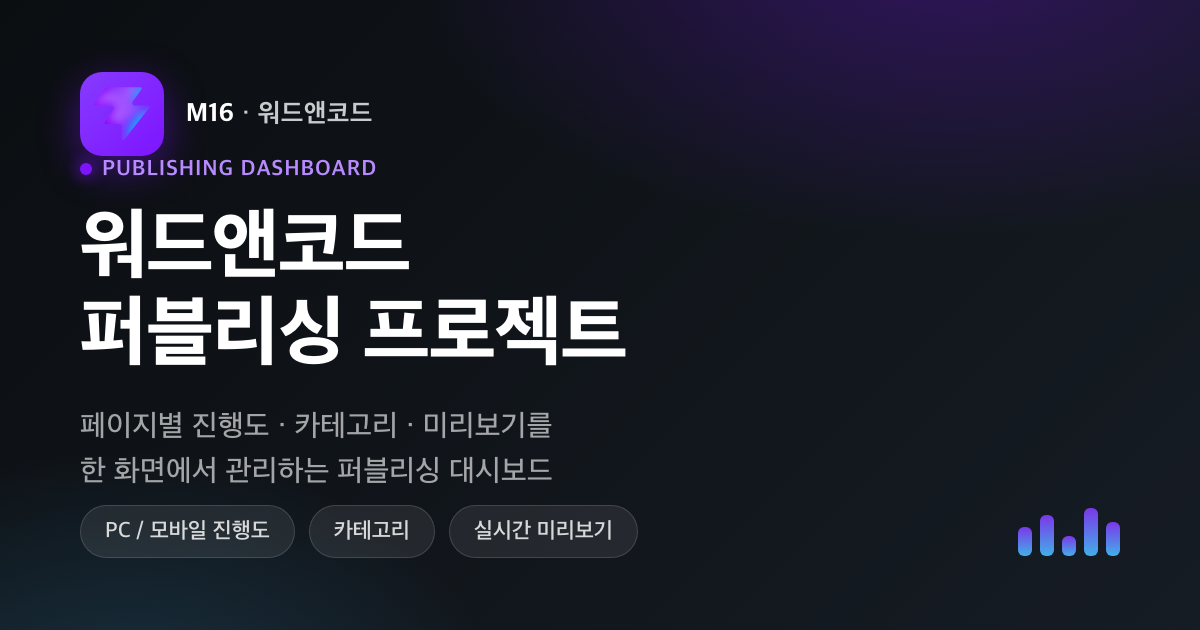
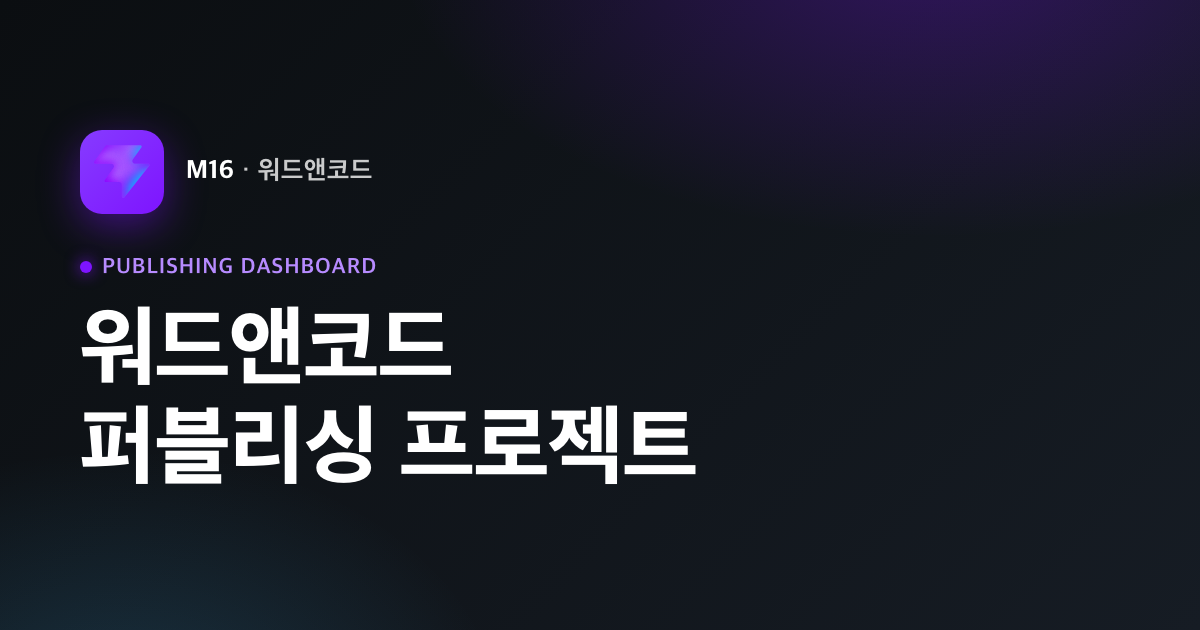
fix: OG 이미지 단순화(부제·칩 제거) 및 og:image를 https 경로로 변경

diff --git a/index.html b/index.html
@@ -19,7 +19,9 @@
     <meta property="og:description" content="페이지별 진행도와 미리보기를 한눈에 보는 퍼블리싱 대시보드." />
     <meta property="og:locale" content="ko_KR" />
     <meta property="og:url" content="http://m16.co.kr/familynet/projects/" />
-    <meta property="og:image" content="http://m16.co.kr/familynet/projects/og-image.png" />
+    <!-- og:image는 https 필수(카카오 등) — m16은 http라 https GitHub Pages 경로 사용 -->
+    <meta property="og:image" content="https://lebass98.github.io/m16/og-image.png" />
+    <meta property="og:image:secure_url" content="https://lebass98.github.io/m16/og-image.png" />
     <meta property="og:image:type" content="image/png" />
     <meta property="og:image:width" content="1200" />
     <meta property="og:image:height" content="630" />
@@ -29,7 +31,7 @@
     <meta name="twitter:card" content="summary_large_image" />
     <meta name="twitter:title" content="워드앤코드 퍼블리싱 프로젝트" />
     <meta name="twitter:description" content="페이지별 진행도와 미리보기를 한눈에 보는 퍼블리싱 대시보드." />
-    <meta name="twitter:image" content="http://m16.co.kr/familynet/projects/og-image.png" />
+    <meta name="twitter:image" content="https://lebass98.github.io/m16/og-image.png" />
 
     <!-- 외부 인덱싱 방지 (내부 도구) -->
     <meta name="robots" content="noindex, nofollow" />
